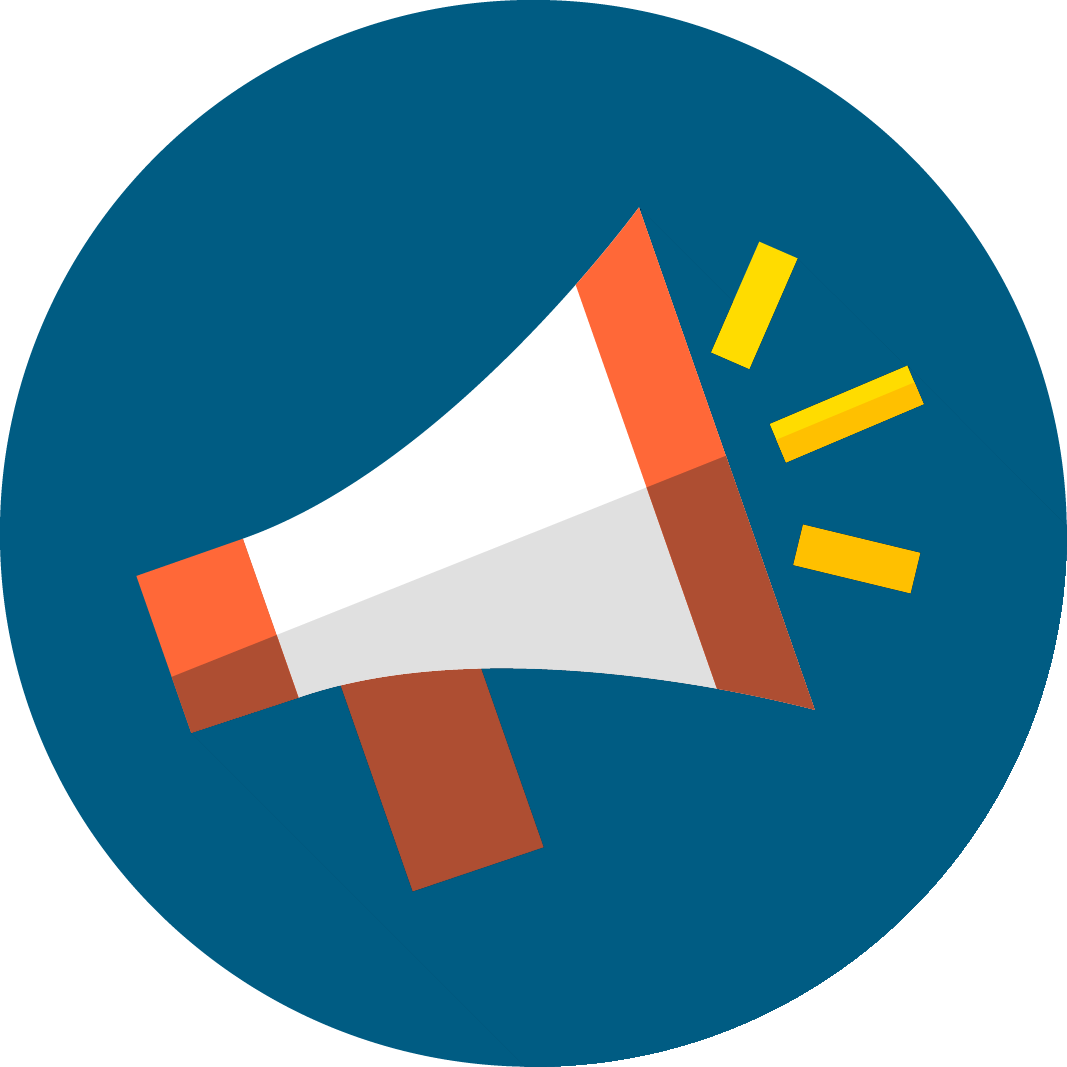
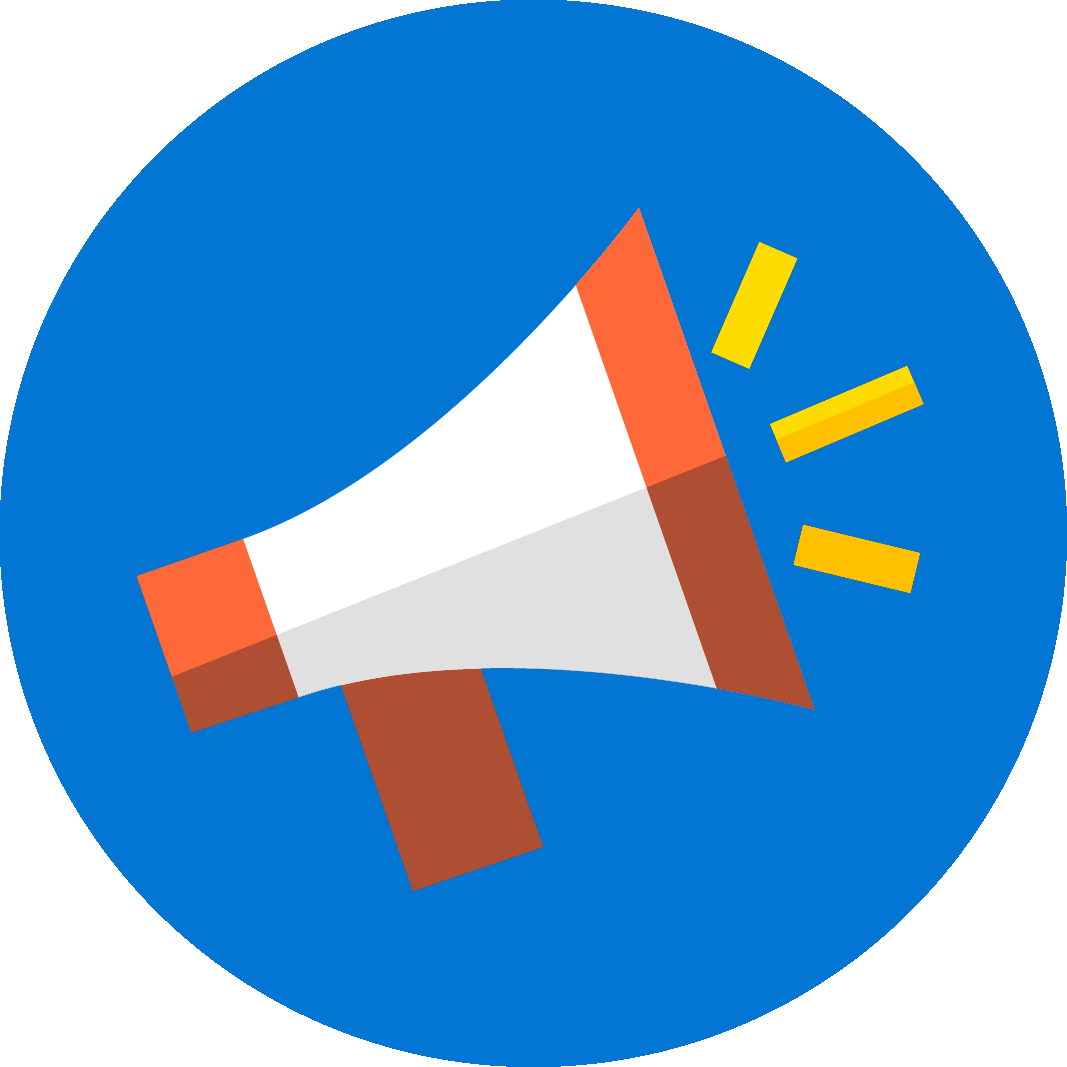
Lista temporária de 30 unidades a partir dali vai automaticamente add a lista, Alterar icone do projeto para (ideia(lampada)),Icones padronizar fundo para Azul parecido com o do Muron

diff --git a/app/controller/api.js b/app/controller/api.js
@@ -55,39 +55,87 @@ router.post('/cadastrar/usuario', function(req, res, next) {
 	console.log('88888888888888 POST LIMPO ALUNO 8888888888888888888888888888888');
 	console.log(post_limpo);
 	console.log('888888888888888888888888888888888888888888888888888888888888888');
+	var nome_facul = post_limpo.nome_faculdade;
+	var data_insert;
+	delete post_limpo.nome_faculdade;
 
 	if (Object.keys(post_limpo).length > 0) {
 		/*Para identificar se o nome do murer for muron, se tiver muron no nome não cadastrar*/
 		model.VerSeMuron(post_limpo.nome_murer).then(nome_murer_muron => {
 			if(nome_murer_muron == ''){
+				if(post_limpo.id_faculdade == ''){
+					model.CadastrarFaculdadeCasoNaoExistir(nome_facul).then(id_faculdade_criada =>{
+						console.log('jjjjjjjjjjjjjjjjjjjjj id da faculdade criada jjjjjjjjjjjjjjjjjjjjjjjjjjjjjj');
+						console.log(id_faculdade_criada);
+						console.log('jjjjjjjjjjjjjjjjjjjjjjjjjjjjjjjjjjjjjjjjjjjjjjjjjjjjjjjjjjjjjjjjjjjjjjjjjjj');
+						post_limpo.id_faculdade = id_faculdade_criada;
+						model.CadastrarUsuario(post_limpo).then(id_usuario => {
 
-				model.CadastrarUsuario(post_limpo).then(id_usuario => {
-					console.log('ESTOU AQUI');
-					console.log(id_usuario);
+							console.log('AAAAAAAAAAAAAAAA ID DO ALUNO AAAAAAAAAAAAAAAAAAAAAAAAAAAAAAAAAA');
+							console.log(id_usuario);
+							console.log('AAAAAAAAAAAAAAAAAAAAAAAAAAAAAAAAAAAAAAAAAAAAAAAAAAAAAAAAAAAAAAA');
 
-					if(id_usuario != ''){
-						data_insert = {id_faculdade: post_limpo.id_faculdade, id_aluno: id_usuario};
-						console.log('7777777777777777777777777777 DATA INSERT 777777777777777777777777');
-						console.log(data_insert);
-						console.log('77777777777777777777777777777777777777777777777777777777777777777');
-						model.CadastrarRelacaoAlunoFaculdade(data_insert).then(data =>{
-							res.json(data);
+							if(id_usuario != ''){
+								data_insert = {id_faculdade: id_faculdade_criada,id_aluno:id_usuario};
+								console.log('888888888888888888888888888 DATA INSERT 88888888888888888888888');
+								console.log(data_insert);
+								console.log('888888888888888888888888888888888888888888888888888888888888888');
+								model.CadastrarRelacaoAlunoFaculdade(data_insert).then(data =>{
+									res.json(data);
+								});
+
+							}else{
+								res.json(['muron_existente']);
+							}
+						});					
+					});
+				}else{
+					model.FaculdadeRecorrenciaAluno(post_limpo.id_faculdade).then(id_faculdade_recorrencia =>{
+						console.log('RRRRRRRRRRRRRRR ID DA FACULDADE RECORRENCIA RRRRRRRRRRRRRRRRR');
+						console.log(id_faculdade_recorrencia);
+						console.log('RRRRRRRRRRRRRRRRRRRRRRRRRRRRRRRRRRRRRRRRRRRRRRRRRRRRRRRRRRRRR');	
+						model.CadastrarUsuario(post_limpo).then(id_usuario => {
+							if(id_usuario != ''){
+								data_insert = {id_faculdade: post_limpo.id_faculdade, id_aluno: id_usuario};
+								console.log('7777777777777777777777777777 DATA INSERT 777777777777777777777777');
+								console.log(data_insert);
+								console.log('77777777777777777777777777777777777777777777777777777777777777777');
+								model.CadastrarRelacaoAlunoFaculdade(data_insert).then(data =>{
+									res.json(data);
+								});
+							}else{
+								res.json(['muron_existente']);
+							}
 						});
-					}else{
-						res.json([]);
-					}
-				});
+					});
+
+				}
+
+				// model.CadastrarFaculdadeCasoNaoExistir(faculdade_sem_sigla[0]).then(id_faculdade => {
+
+				// });
+
+
 			}else{
-				res.json([]);
+				res.json(['possui_muron']);
 			};			
 		});
 	} else {
-		res.json([]);
+		res.json(['dado_invalido']);
 	}
 });
 router.post('/cadastrar/parceiro', function(req, res, next) {
 	var post = req.body;
 	var post_limpo = model.VerificarSenha(post);
+	var nome_facul;
+
+	if(post_limpo.nome_faculdade != ''){
+		nome_facul = post_limpo.nome_faculdade;
+		delete post_limpo.nome_faculdade;
+	}
+	var data_insert;
+	post_limpo.validacao = 1;
+	
 
 	console.log('00000000000000000 POST LIMPO 00000000000000000000000000000');
 	console.log(post_limpo);
@@ -97,52 +145,40 @@ router.post('/cadastrar/parceiro', function(req, res, next) {
 		/*Para identificar se o nome do murer for muron, se tiver muron no nome não cadastrar*/
 		model.VerSeMuron(post_limpo.nome_murer).then(nome_murer_muron => {
 			if(nome_murer_muron == ''){
-				console.log('§§§§§§§§§§§§§ post_limpo > 0 §§§§§§§§§§§§§§§§§§§§§§§§§');
-				post_limpo.validacao = 1;
-				console.log('666666666 POST LIMPO APOS VALIDACAO 66666666666666666666666');
-				console.log(post_limpo);
-				console.log('66666666666666666666666666666666666666666666666666666666666');
 
 				if(post_limpo.tipo == 2){
-
-					model.VerSeExisteParceiroFaculdade(post_limpo.id_faculdade).then(temParceiro=>{
-						if(temParceiro == ''){
+					if(post_limpo.id_faculdade == ''){
+						model.CadastrarFaculdadeCasoNaoExistir(nome_facul).then(id_faculdade_criada =>{
+							post_limpo.id_faculdade = id_faculdade_criada;
 							model.CadastrarParceiro(post_limpo).then(id_parceiro => {
 								res.json(id_parceiro);
-							});
-						}else{
-							/*Dizer Resposta que já existe gerente para aquela faculdade*/
-							res.json(['possui_gerente']);
-						}
-					});
+							});						
+						});
 
-
+					}else{
+						model.VerSeExisteParceiroFaculdade(post_limpo.id_faculdade).then(temParceiro=>{
+							if(temParceiro == ''){
+								model.CadastrarParceiro(post_limpo).then(id_parceiro => {
+									res.json(id_parceiro);
+								});
+							}else{
+								/*Dizer Resposta que já existe gerente para aquela faculdade*/
+								res.json(['possui_gerente']);
+							}
+						});						
+					}
 				}else{
 					model.CadastrarParceiro(post_limpo).then(id_parceiro => {
 						res.json(id_parceiro);
 					});
 				}
-				
-
-
-
-				// if(post_limpo.tipo == 2){
-				// 	post_limpo.id_faculdade = id_parceiro; 
-				// 	model.InsertFaculdadeRelacao(post_limpo).then(id_faculdade =>{								
-				// 	});
-				// };				
-
-
-
-
-
 
 			}else{
-				res.json([]);
+				res.json(['possui_muron']);
 			};
 		});
 	} else {
-		res.json([]);
+		res.json(['dado_invalido']);
 	}
 });
 module.exports = router;

diff --git a/app/model/apiModel.js b/app/model/apiModel.js
@@ -52,9 +52,6 @@
  							resolve(data);
  						});
  					}
- 					
-
- 					
 
  				} else {
  					resolve([]);
@@ -64,6 +61,15 @@
  	}
 
 
+ 	CadastrarFaculdadeCasoNaoExistir(nome_faculdade){
+ 		return new Promise(function(resolve, reject) {
+ 			var post_insert = {NO_IES:nome_faculdade,SGL_IES:'',ativacao:1,recorrencia:1};
+ 			
+ 			helper.Insert('faculdades_inep', post_insert).then(data => {
+ 				resolve(data);
+ 			});
+ 		});
+ 	}
 
  	SelecionarFaculdades(){
  		return new Promise(function(resolve, reject) {
@@ -76,6 +82,26 @@
  		});
  	}
 
+
+ 	FaculdadeRecorrenciaAluno(id_faculdade){
+ 		return new Promise(function(resolve, reject) {
+ 			helper.Query('SELECT * FROM faculdades_inep WHERE id = ?', [id_faculdade]).then(result => {
+ 				//se a ativacao for por aluno eu adiciono 1 na recorrencia
+ 				if(result[0].ativacao == 1){
+ 					var recorrencia_new = result[0].recorrencia + 1;
+ 					var data_update = {id:result[0].id,recorrencia:recorrencia_new};
+ 					helper.Update('faculdades_inep', data_update).then(id_faculdade_upd => {
+ 						resolve(id_faculdade_upd);
+ 					});
+ 				}else{
+ 					resolve([]);
+ 				}
+ 			});
+ 		});
+
+ 	}
+
+
  	PesquisarFaculdade(nomeFaculdade) {
  		return new Promise(function(resolve, reject) {
 
@@ -84,7 +110,7 @@
  			console.log('00000000000000000000000000000000000000000');			
 
  			/*Seleciono a pesquisa de acordo com o que foi digitado e coloco entre parênteses() a sigla se tiver alguma*/
- 			helper.Query('SELECT id, \
+ 			helper.Query('SELECT id,\
  				(CASE WHEN SGL_IES = "" THEN NO_IES ELSE\
  				(CASE WHEN SGL_IES != "" THEN CONCAT(NO_IES," (",SGL_IES,")")\
  				END)END) as name\
